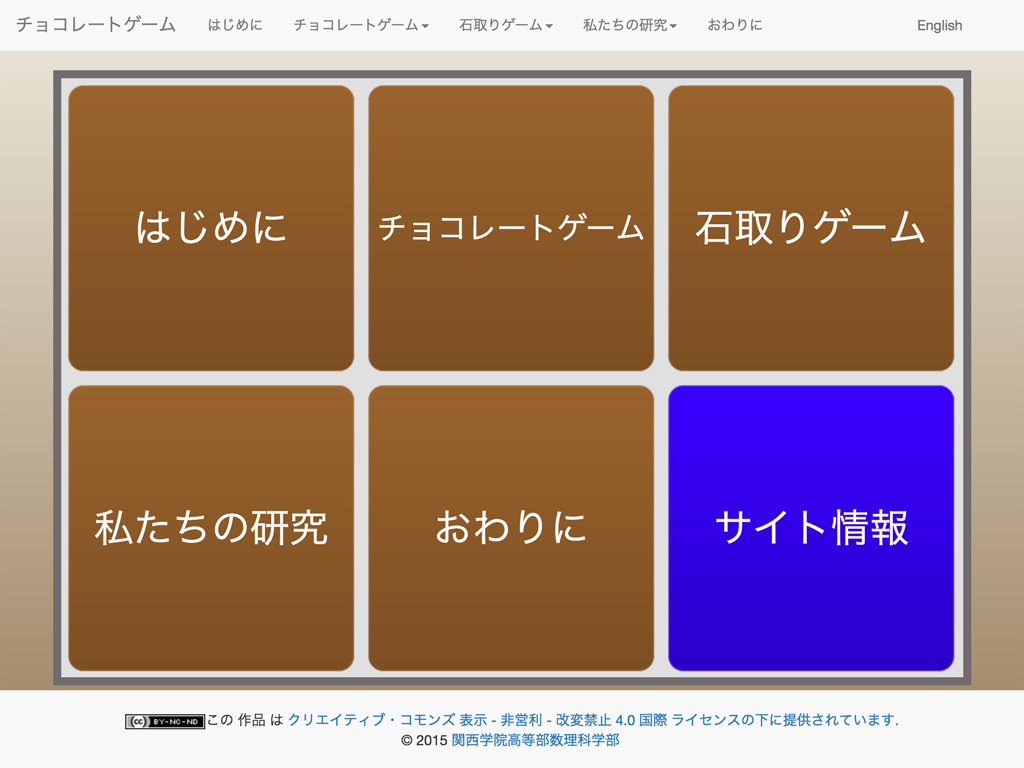
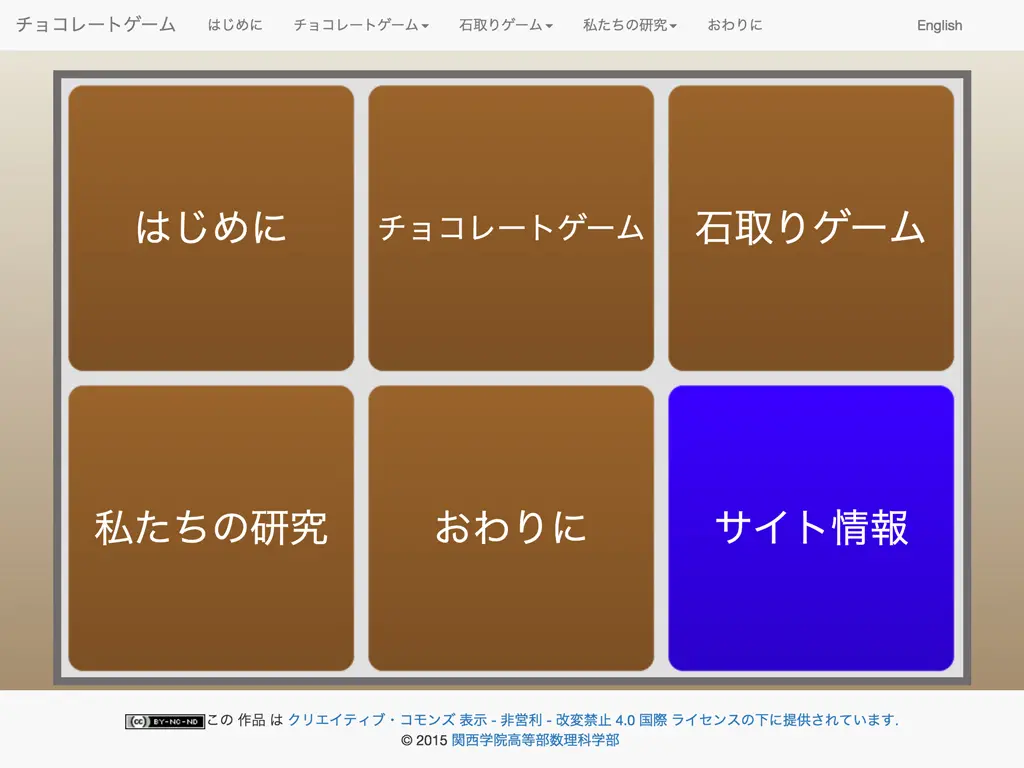
all images use webp

Changed region(s): [[0.4375, 0.9375, 0.625, 0.9688], [0.8125, 0.6562, 0.875, 0.7188], [0.625, 0.9062, 0.6562, 0.9375]]

diff --git a/pages/index.vue b/pages/index.vue
@@ -82,7 +82,7 @@ export default {
           }
         },
         {
-          media: "dtnsim.jpg",
+          media: "dtnsim.webp",
           title: "DTNシミュレータ",
           sentence: {
             text:
@@ -96,7 +96,7 @@ export default {
           }
         },
         {
-          media: "kaguya_world.jpg",
+          media: "kaguya_world.webp",
           title: "光輝くかぐやの世界",
           sentence: {
             text:
@@ -138,7 +138,7 @@ export default {
           }
         },
         {
-          media: "projection_mapping.jpg",
+          media: "projection_mapping.webp",
           title: "プロジェクションマッピング",
           sentence: {
             text:
@@ -153,7 +153,7 @@ export default {
           }
         },
         {
-          media: "pronama_time.jpg",
+          media: "pronama_time.webp",
           title: "プロ生ちゃんの時間！",
           sentence: {
             text: "Google Chromeの拡張機能です．プロ生ちゃんによる時報です．",
